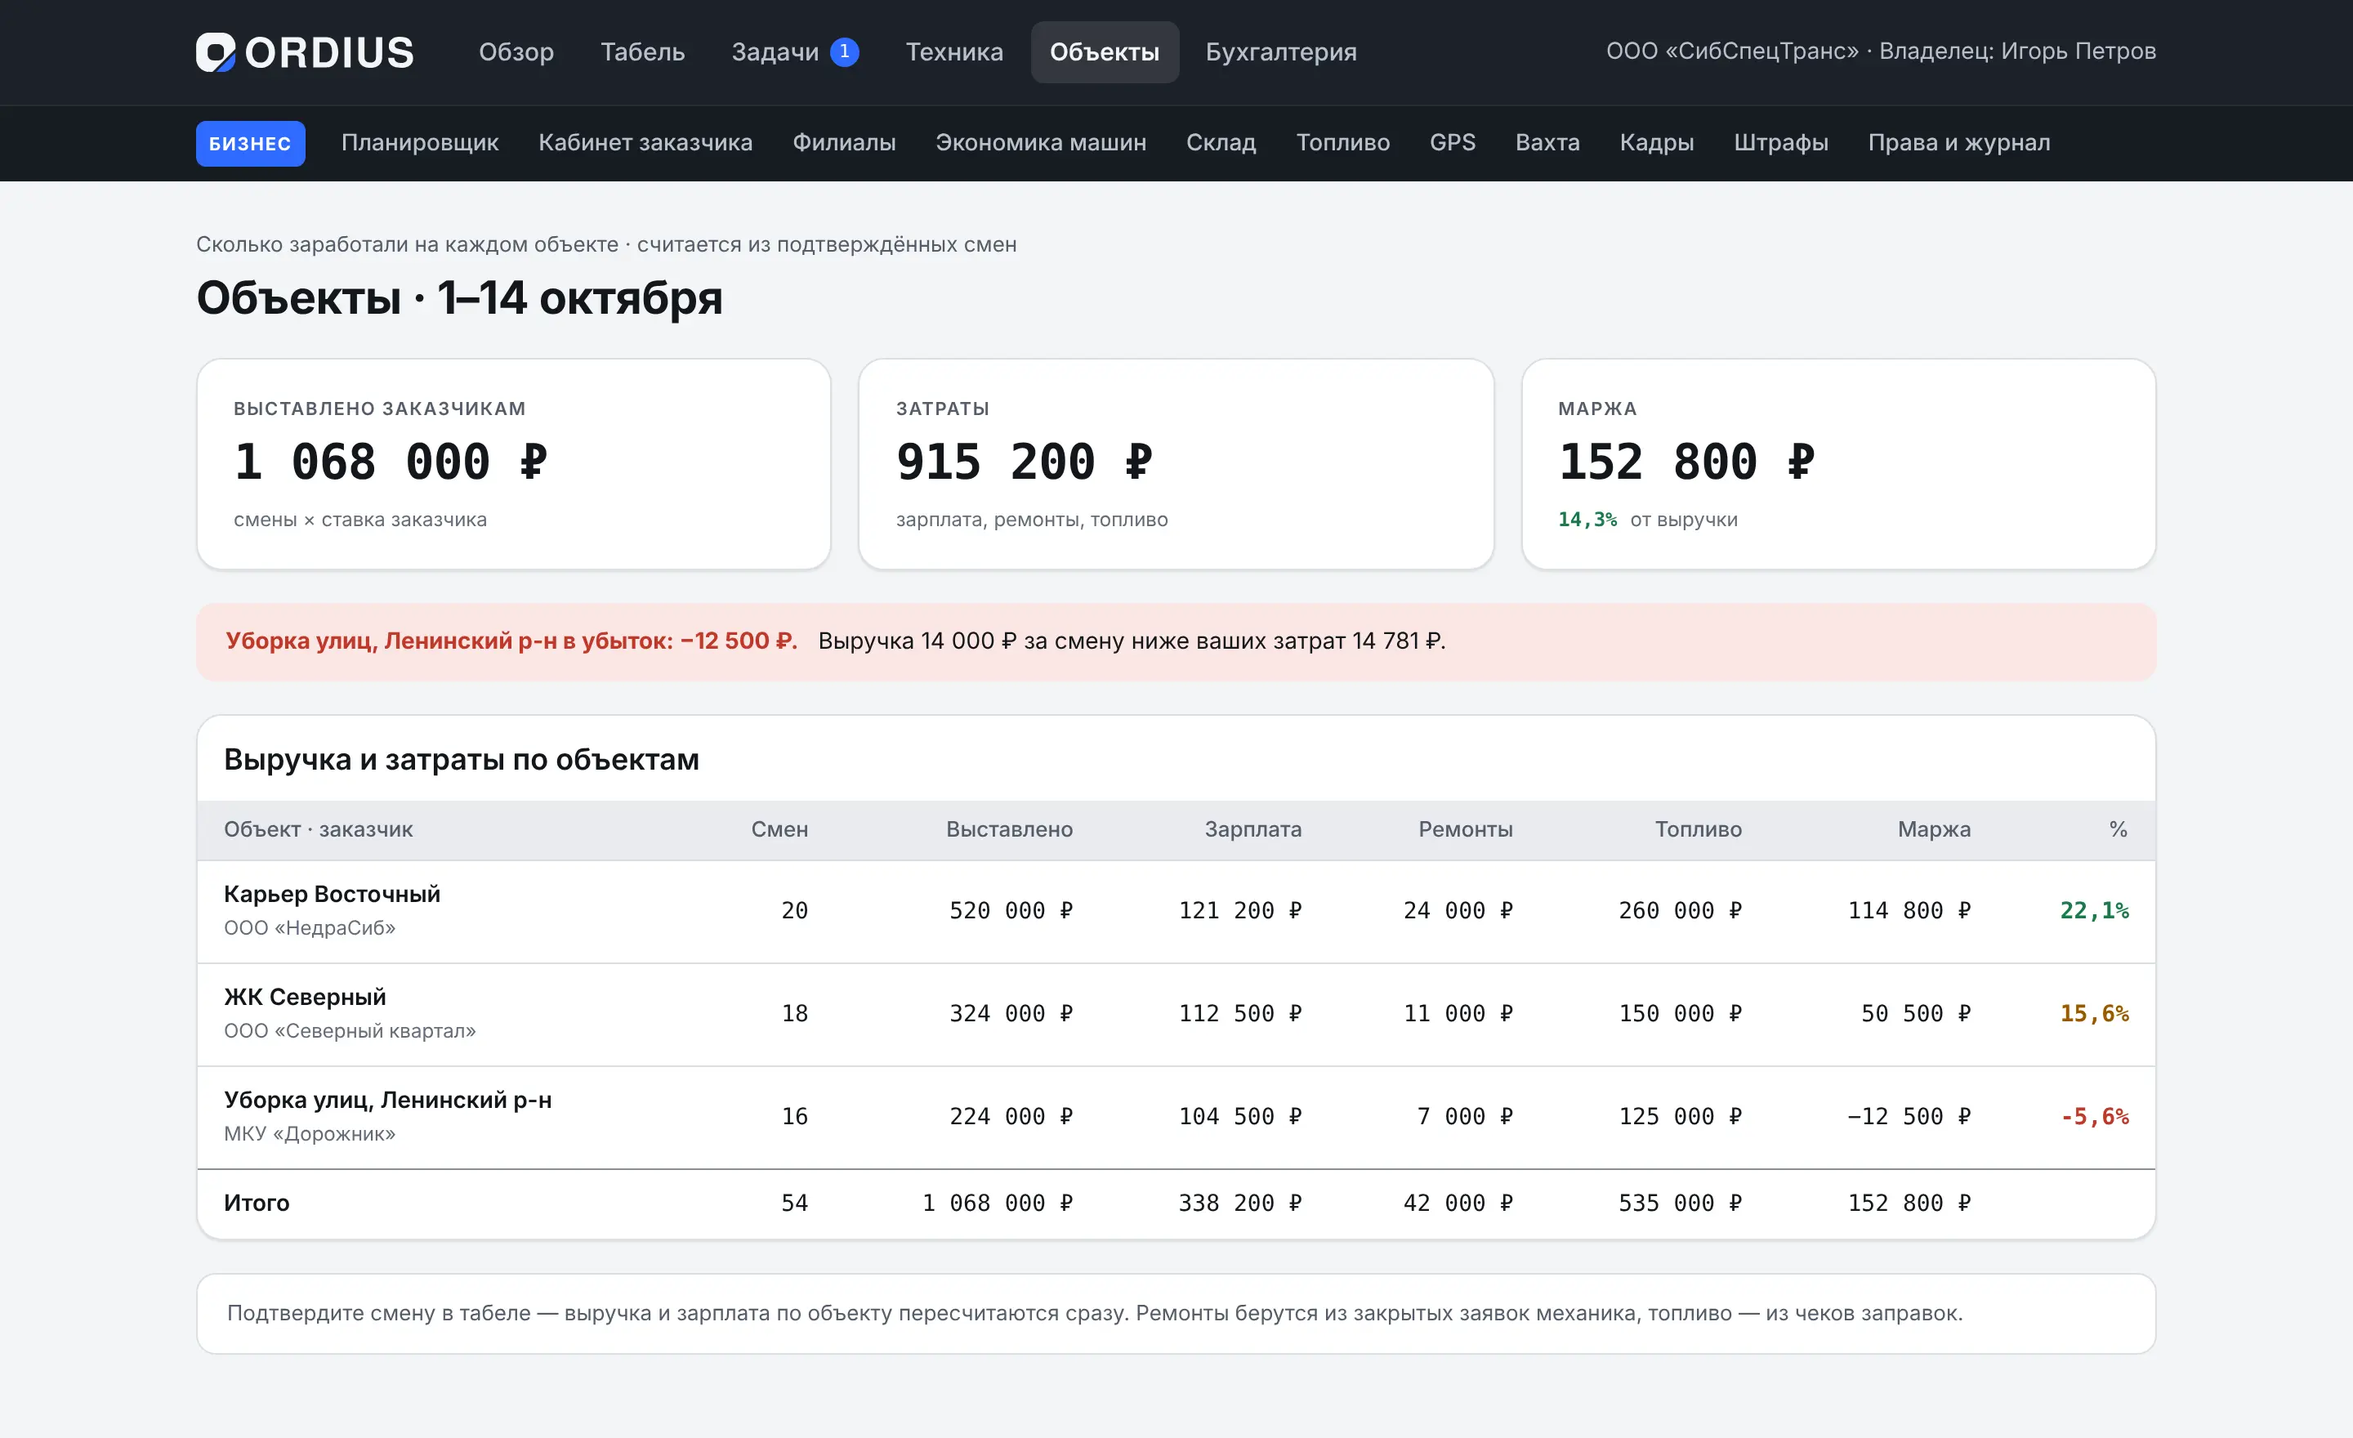
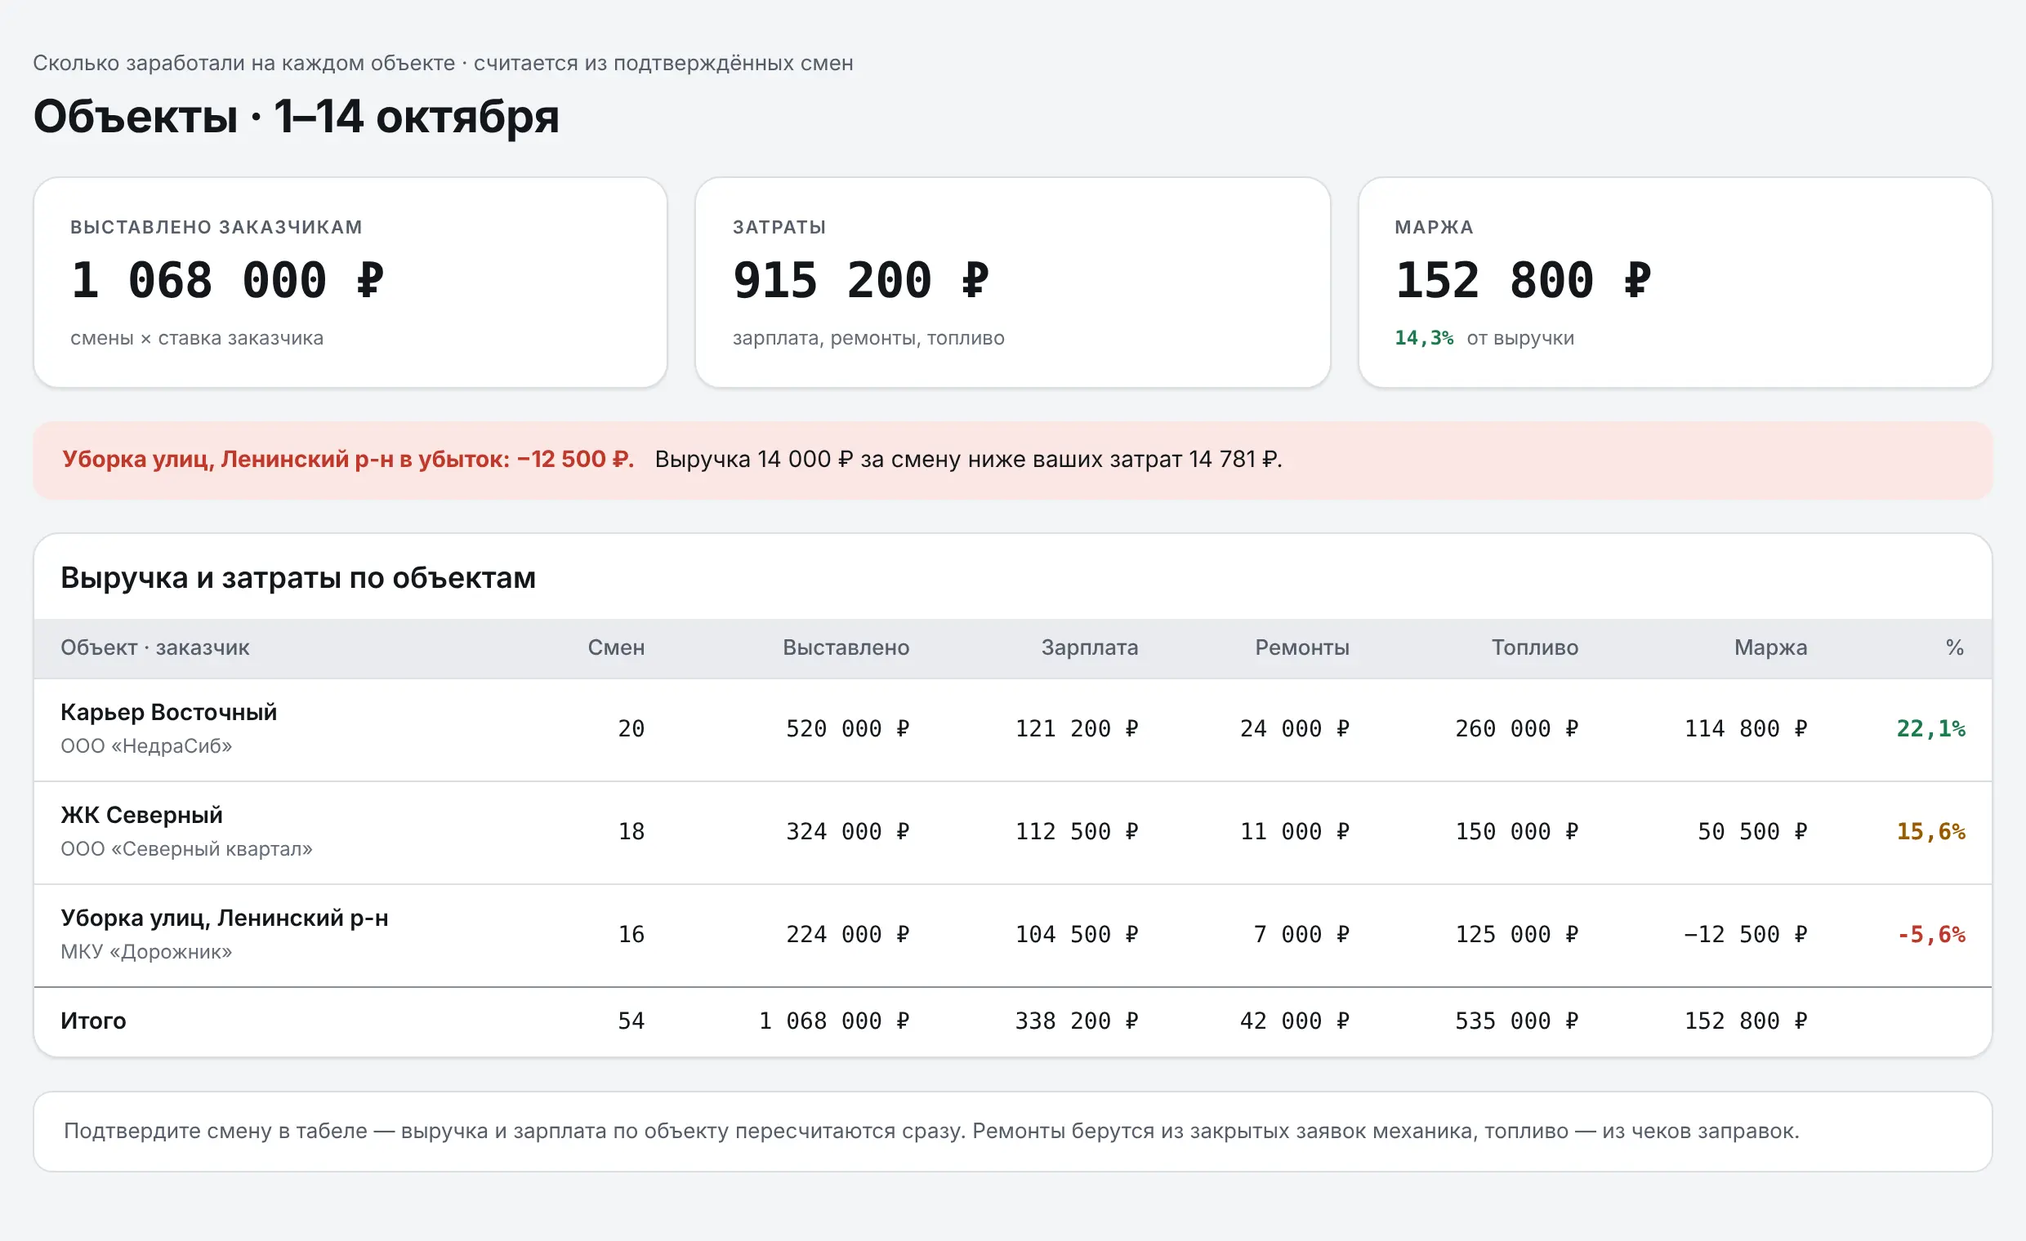
Лендинг: крупный «первый месяц бесплатно», чёткие скриншоты с увеличением, слоган «Порядок в парке»
Claude-Session: https://claude.ai/code/session_01Uww1RHbUfzrk4QrtmdjSHw

diff --git a/index.html b/index.html
@@ -3,13 +3,13 @@
 <head>
   <meta charset="utf-8" />
   <meta name="viewport" content="width=device-width, initial-scale=1" />
-  <title>Ordius — учёт смен, ремонтов и зарплаты водителей для автопарков и спецтехники</title>
+  <title>Ordius — порядок в парке, от смены до выплаты</title>
   <meta name="description" content="Водитель отмечает смену в телефоне, механик ведёт ремонт, бухгалтер видит, кому сколько выплатить. Табель, ремонты, топливные карты и маржа по объектам для владельцев спецтехники и грузовых автопарков." />
   <meta name="theme-color" content="#1C2129" />
   <link rel="canonical" href="https://ordius.ru/" />
   <meta property="og:type" content="website" />
   <meta property="og:locale" content="ru_RU" />
-  <meta property="og:title" content="Ordius — смены, ремонты и зарплата водителей в одном месте" />
+  <meta property="og:title" content="Ordius — порядок в парке, от смены до выплаты" />
   <meta property="og:description" content="Учёт для владельцев спецтехники и грузовых автопарков. Откройте демо — без регистрации." />
   <meta property="og:image" content="https://ordius.ru/img/og.png" />
   <meta property="og:url" content="https://ordius.ru/" />
@@ -119,9 +119,9 @@
     .chain-foot b { color: var(--ink); font-weight: 600; }
 
     /* Feature rows */
-    .feat { display: grid; grid-template-columns: minmax(0, 5fr) minmax(0, 7fr); gap: 64px; align-items: center; padding: 56px 0; }
+    .feat { display: grid; grid-template-columns: minmax(0, 4fr) minmax(0, 7fr); gap: 56px; align-items: center; padding: 56px 0; }
     .feat + .feat { border-top: 1px solid var(--line); }
-    .feat.flip { grid-template-columns: minmax(0, 7fr) minmax(0, 5fr); }
+    .feat.flip { grid-template-columns: minmax(0, 7fr) minmax(0, 4fr); }
     .feat.flip .feat-copy { order: 2; }
     .feat-copy { display: flex; flex-direction: column; gap: 16px; }
     .feat-copy ul { margin: 8px 0 0; padding: 0; list-style: none; display: flex; flex-direction: column; gap: 10px; }
@@ -129,8 +129,18 @@
     .feat-copy li::before { content: ""; position: absolute; left: 2px; top: 9px; width: 12px; height: 7px; border-left: 2px solid var(--signal); border-bottom: 2px solid var(--signal); transform: rotate(-45deg); }
     .frame { border-radius: 12px; overflow: hidden; border: 1px solid var(--line); background: var(--surface-1); box-shadow: 0 1px 2px rgba(20,23,28,.05), 0 12px 32px rgba(20,23,28,.08); }
     .frame img { width: 100%; }
-    .frame.crop { aspect-ratio: 16 / 10; }
-    .frame.crop img { width: 100%; height: 100%; object-fit: cover; object-position: top left; }
+    .zoom { position: relative; display: block; width: 100%; padding: 0; font: inherit; cursor: zoom-in; }
+    .zoom-hint { position: absolute; right: 12px; bottom: 12px; display: inline-flex; align-items: center; gap: 8px; padding: 8px 12px; border-radius: 10px; background: rgba(28,33,41,.88); color: #F3F4F6; font-size: 14px; font-weight: 500; line-height: 1; transition: background-color .15s; }
+    .zoom:hover .zoom-hint { background: var(--signal); }
+    .free { align-self: flex-start; display: inline-flex; align-items: center; gap: 10px; padding: 10px 16px; border-radius: 12px; background: var(--success-soft); color: var(--success); font-family: var(--font-display); font-size: 22px; line-height: 28px; font-weight: 600; letter-spacing: -0.01em; }
+    .free svg { flex: none; }
+    dialog.lb { border: 0; padding: 0; margin: 0; width: 100vw; height: 100dvh; max-width: none; max-height: none; background: rgba(14,17,21,.94); overflow: auto; }
+    dialog.lb::backdrop { background: transparent; }
+    .lb-inner { min-height: 100%; display: flex; align-items: center; justify-content: center; padding: 64px 24px 24px; box-sizing: border-box; }
+    .lb img { width: min(100%, 1240px); height: auto; border-radius: 10px; box-shadow: 0 20px 60px rgba(0,0,0,.5); }
+    .lb-close { position: fixed; top: 14px; right: 14px; height: 44px; padding: 0 16px; border-radius: 10px; border: 1px solid rgba(255,255,255,.25); background: #1C2129; color: #F3F4F6; font: 600 15px/1 var(--font-sans); cursor: pointer; display: inline-flex; align-items: center; gap: 8px; }
+    .lb-close:hover { border-color: rgba(255,255,255,.6); }
+    @media (max-width: 760px) { .lb-inner { justify-content: flex-start; align-items: flex-start; padding: 72px 16px 24px; } .lb img { width: 1100px; max-width: none; } .zoom-hint span { display: none; } }
 
     /* Roles */
     .roles { display: grid; grid-template-columns: repeat(auto-fill, minmax(260px, 1fr)); gap: 0 48px; border-top: 1px solid var(--line); }
@@ -307,7 +317,7 @@
               <li>Изменили ставку — прошлые смены не пересчитаются</li>
             </ul>
           </div>
-          <div class="frame crop"><img src="img/tabel.webp" width="2880" height="1760" loading="lazy" alt="Табель смен: водители по строкам, дни по столбцам, неподтверждённые смены выделены" /></div>
+          <button type="button" class="frame zoom" data-full="img/tabel.webp" aria-label="Увеличить: Табель смен: водители по строкам, дни по столбцам, неподтверждённые смены выделены"><img src="img/tabel.webp" width="2480" height="1520" loading="lazy" alt="Табель смен: водители по строкам, дни по столбцам, неподтверждённые смены выделены" /><span class="zoom-hint"><svg aria-hidden="true" width="16" height="16" viewBox="0 0 24 24" fill="none" stroke="currentColor" stroke-width="2" stroke-linecap="round"><circle cx="11" cy="11" r="7"/><path d="M20 20l-4-4M11 8v6M8 11h6"/></svg><span>Увеличить</span></span></button>
         </div>
 
         <div class="feat flip">
@@ -320,7 +330,7 @@
               <li>Топливо — из чеков заправок</li>
             </ul>
           </div>
-          <div class="frame crop"><img src="img/objects.webp" width="2880" height="1760" loading="lazy" alt="Деньги по объектам: выставлено 1 068 000 ₽, затраты 915 200 ₽, маржа 152 800 ₽, один объект в убытке" /></div>
+          <button type="button" class="frame zoom" data-full="img/objects.webp" aria-label="Увеличить: Деньги по объектам: выставлено 1 068 000 ₽, затраты 915 200 ₽, маржа 152 800 ₽, один объект в убытке"><img src="img/objects.webp" width="2480" height="1520" loading="lazy" alt="Деньги по объектам: выставлено 1 068 000 ₽, затраты 915 200 ₽, маржа 152 800 ₽, один объект в убытке" /><span class="zoom-hint"><svg aria-hidden="true" width="16" height="16" viewBox="0 0 24 24" fill="none" stroke="currentColor" stroke-width="2" stroke-linecap="round"><circle cx="11" cy="11" r="7"/><path d="M20 20l-4-4M11 8v6M8 11h6"/></svg><span>Увеличить</span></span></button>
         </div>
 
         <div class="feat">
@@ -333,7 +343,7 @@
               <li>Водитель видит свою карту в телефоне</li>
             </ul>
           </div>
-          <div class="frame crop"><img src="img/fleet.webp" width="2880" height="1760" loading="lazy" alt="Карточка экскаватора-погрузчика: ТО по моточасам, ОСАГО, техосмотр, топливная карта" /></div>
+          <button type="button" class="frame zoom" data-full="img/fleet.webp" aria-label="Увеличить: Карточка экскаватора-погрузчика: ТО по моточасам, ОСАГО, техосмотр, топливная карта"><img src="img/fleet.webp" width="2480" height="1520" loading="lazy" alt="Карточка экскаватора-погрузчика: ТО по моточасам, ОСАГО, техосмотр, топливная карта" /><span class="zoom-hint"><svg aria-hidden="true" width="16" height="16" viewBox="0 0 24 24" fill="none" stroke="currentColor" stroke-width="2" stroke-linecap="round"><circle cx="11" cy="11" r="7"/><path d="M20 20l-4-4M11 8v6M8 11h6"/></svg><span>Увеличить</span></span></button>
         </div>
 
         <div class="feat flip">
@@ -346,7 +356,7 @@
               <li>Штрафы и ущерб удерживаются с указанием причины</li>
             </ul>
           </div>
-          <div class="frame crop"><img src="img/accounting.webp" width="2880" height="1760" loading="lazy" alt="Экран бухгалтера: зарплата к выплате по водителям и счета поставщиков" /></div>
+          <button type="button" class="frame zoom" data-full="img/accounting.webp" aria-label="Увеличить: Экран бухгалтера: зарплата к выплате по водителям и счета поставщиков"><img src="img/accounting.webp" width="2480" height="1520" loading="lazy" alt="Экран бухгалтера: зарплата к выплате по водителям и счета поставщиков" /><span class="zoom-hint"><svg aria-hidden="true" width="16" height="16" viewBox="0 0 24 24" fill="none" stroke="currentColor" stroke-width="2" stroke-linecap="round"><circle cx="11" cy="11" r="7"/><path d="M20 20l-4-4M11 8v6M8 11h6"/></svg><span>Увеличить</span></span></button>
         </div>
       </div>
     </section>
@@ -402,7 +412,7 @@
           <div class="plan">
             <div class="plan-name"><h3>Старт</h3></div>
             <div class="price">4 900 ₽<small> в месяц</small></div>
-            <span class="badge b-ok">Первый месяц бесплатно</span>
+            <p class="free"><svg aria-hidden="true" width="22" height="22" viewBox="0 0 24 24" fill="none" stroke="currentColor" stroke-width="2" stroke-linecap="round" stroke-linejoin="round"><rect x="3" y="8" width="18" height="4" rx="1"/><path d="M12 8v13M19 12v7a2 2 0 0 1-2 2H7a2 2 0 0 1-2-2v-7"/><path d="M7.5 8a2.5 2.5 0 0 1 0-5C10 3 12 8 12 8s2-5 4.5-5a2.5 2.5 0 0 1 0 5"/></svg>Первый месяц бесплатно</p>
             <p class="plan-for">До 10 единиц техники. Для владельца, который сам себе диспетчер.</p>
             <ul>
               <li>Табель со смартфона водителя и фото документов</li>
@@ -417,7 +427,7 @@
           <div class="plan pro">
             <div class="plan-name"><h3>Бизнес</h3><span class="badge b-info">12 дополнительных разделов</span></div>
             <div class="price">11 900 ₽<small> в месяц</small></div>
-            <span class="badge b-ok">Первый месяц бесплатно</span>
+            <p class="free"><svg aria-hidden="true" width="22" height="22" viewBox="0 0 24 24" fill="none" stroke="currentColor" stroke-width="2" stroke-linecap="round" stroke-linejoin="round"><rect x="3" y="8" width="18" height="4" rx="1"/><path d="M12 8v13M19 12v7a2 2 0 0 1-2 2H7a2 2 0 0 1-2-2v-7"/><path d="M7.5 8a2.5 2.5 0 0 1 0-5C10 3 12 8 12 8s2-5 4.5-5a2.5 2.5 0 0 1 0 5"/></svg>Первый месяц бесплатно</p>
             <p class="plan-for">До 40 единиц техники. Больше — посчитаем под ваш парк.</p>
             <ul>
               <li>Всё из тарифа «Старт»</li>
@@ -466,9 +476,14 @@
   <footer>
     <div class="wrap">
       <img src="brand/ordius-lockup-on-dark.svg" alt="Ordius" width="111" height="20" />
-      <span>© 2026 Ordius. Учёт смен, техники и зарплаты водителей.</span>
+      <span>Ordius — порядок в парке, от смены до выплаты. © 2026</span>
     </div>
   </footer>
+
+  <dialog class="lb" id="lb" aria-label="Скриншот Ordius">
+    <button type="button" class="lb-close" id="lb-close">Закрыть<svg aria-hidden="true" width="16" height="16" viewBox="0 0 24 24" fill="none" stroke="currentColor" stroke-width="2.2" stroke-linecap="round"><path d="M6 6l12 12M18 6L6 18"/></svg></button>
+    <div class="lb-inner"><img id="lb-img" alt="" /></div>
+  </dialog>
 
   <script>
     // Контакт для кнопок связи. Если оставить пустым, кнопки скроются.
@@ -478,6 +493,15 @@
       document.body.classList.remove('no-contact');
       document.querySelectorAll('[data-contact]').forEach(function (a) { a.href = CONTACT; a.target = '_blank'; a.rel = 'noopener'; });
     }
+    var lb = document.getElementById('lb'), lbImg = document.getElementById('lb-img');
+    document.querySelectorAll('.zoom').forEach(function (b) {
+      b.addEventListener('click', function () {
+        lbImg.src = b.dataset.full; lbImg.alt = b.querySelector('img').alt;
+        if (lb.showModal) { lb.showModal(); } else { window.open(b.dataset.full, '_blank'); }
+      });
+    });
+    document.getElementById('lb-close').addEventListener('click', function () { lb.close(); });
+    lb.addEventListener('click', function (e) { if (e.target === lb || e.target.classList.contains('lb-inner')) lb.close(); });
     var chain = document.getElementById('chain');
     var still = window.matchMedia('(prefers-reduced-motion: reduce)').matches;
     if (still || !('IntersectionObserver' in window)) { chain.classList.add('run'); }
